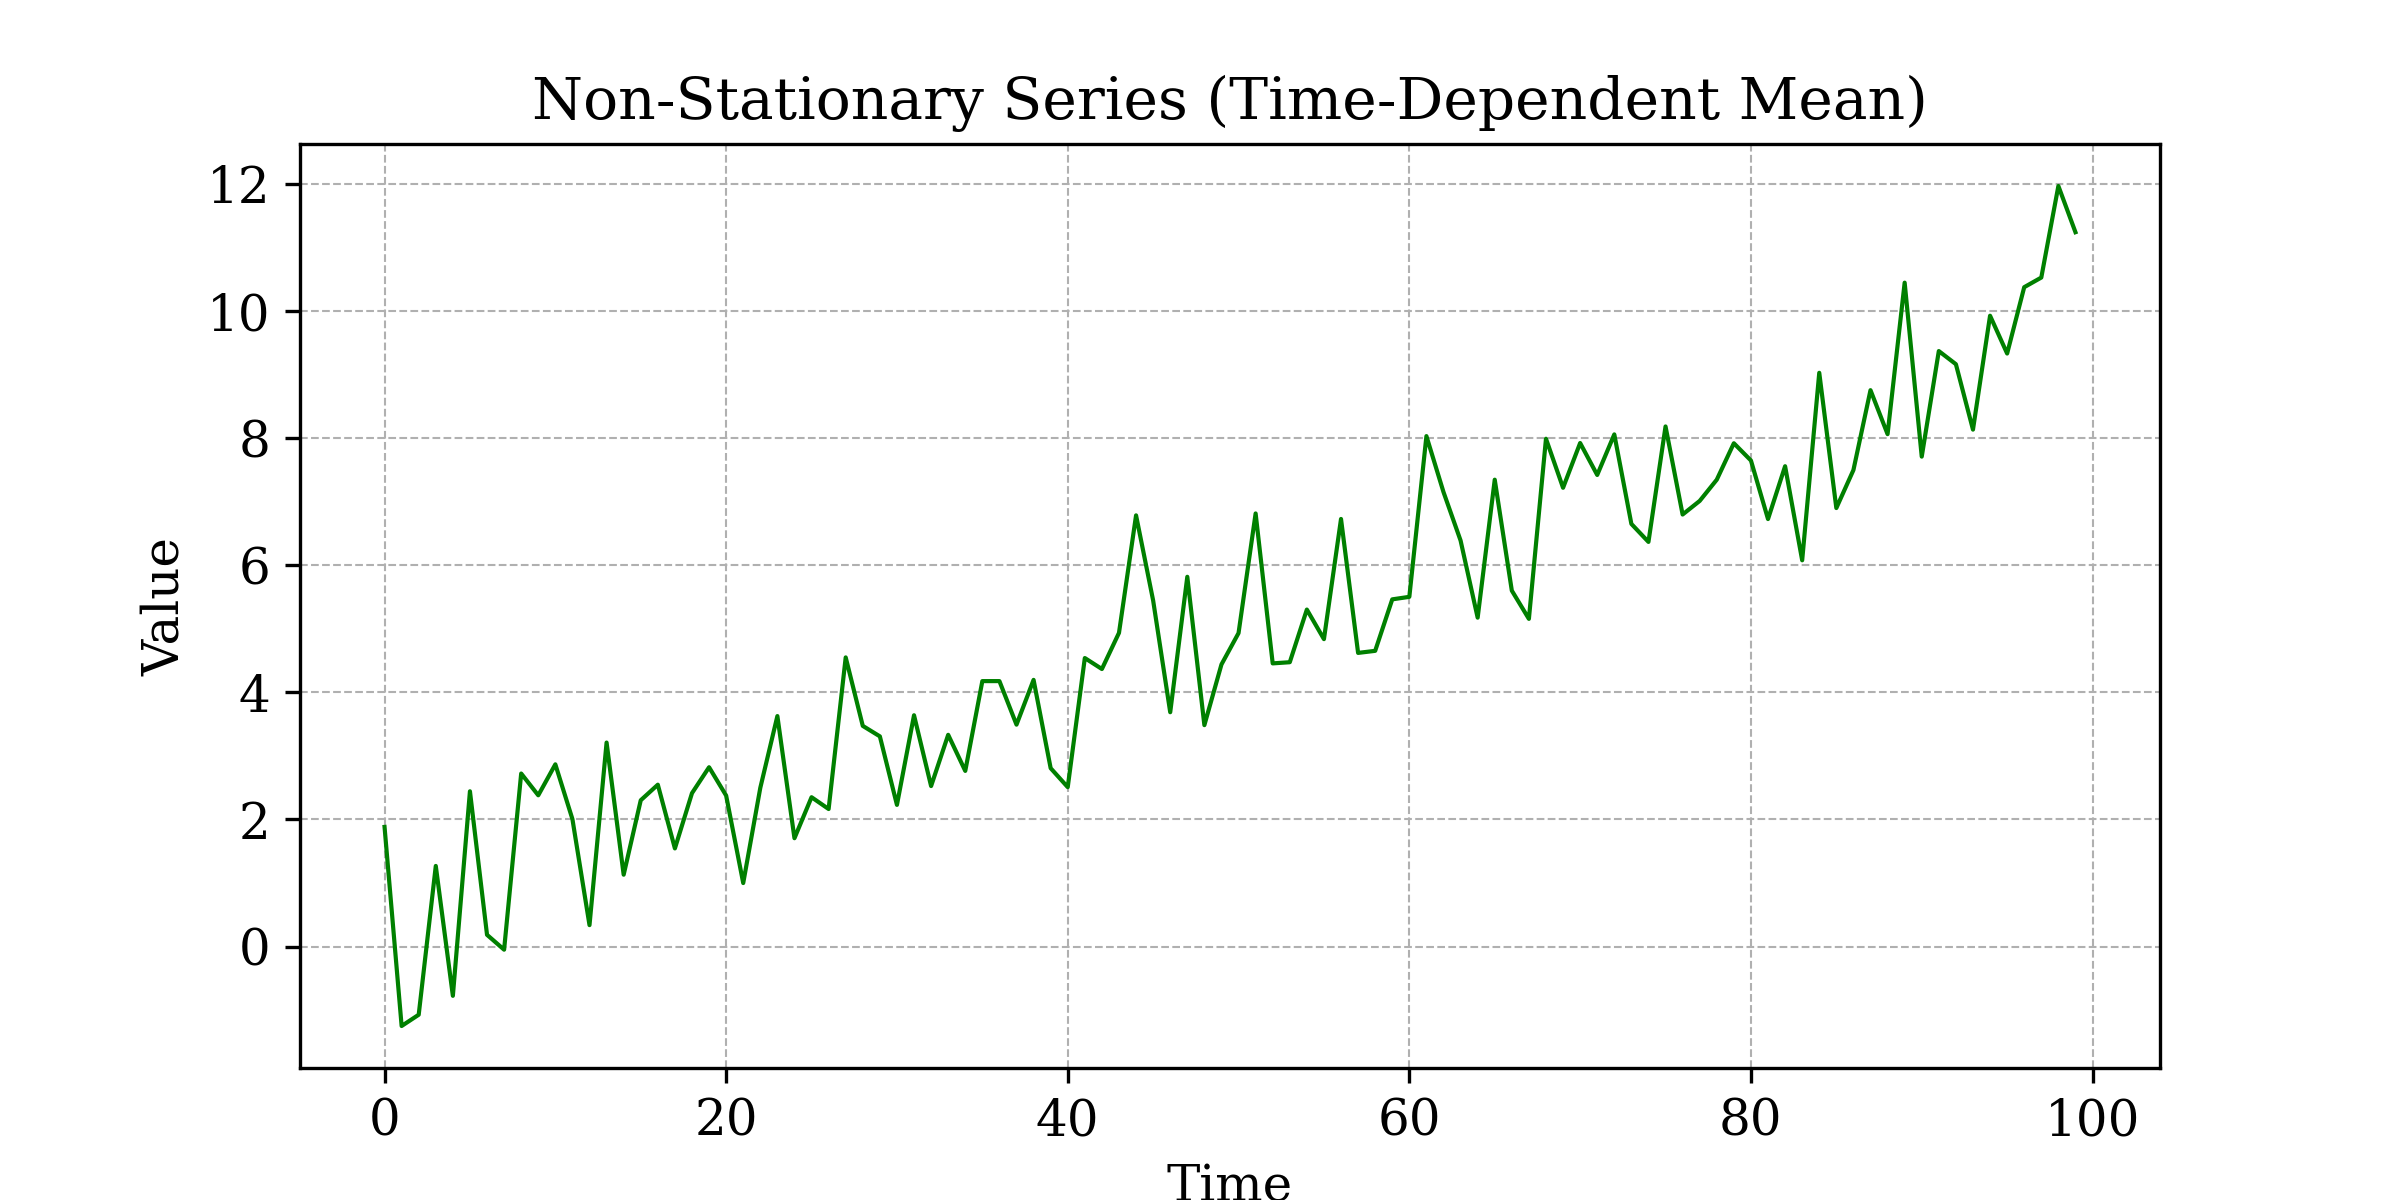
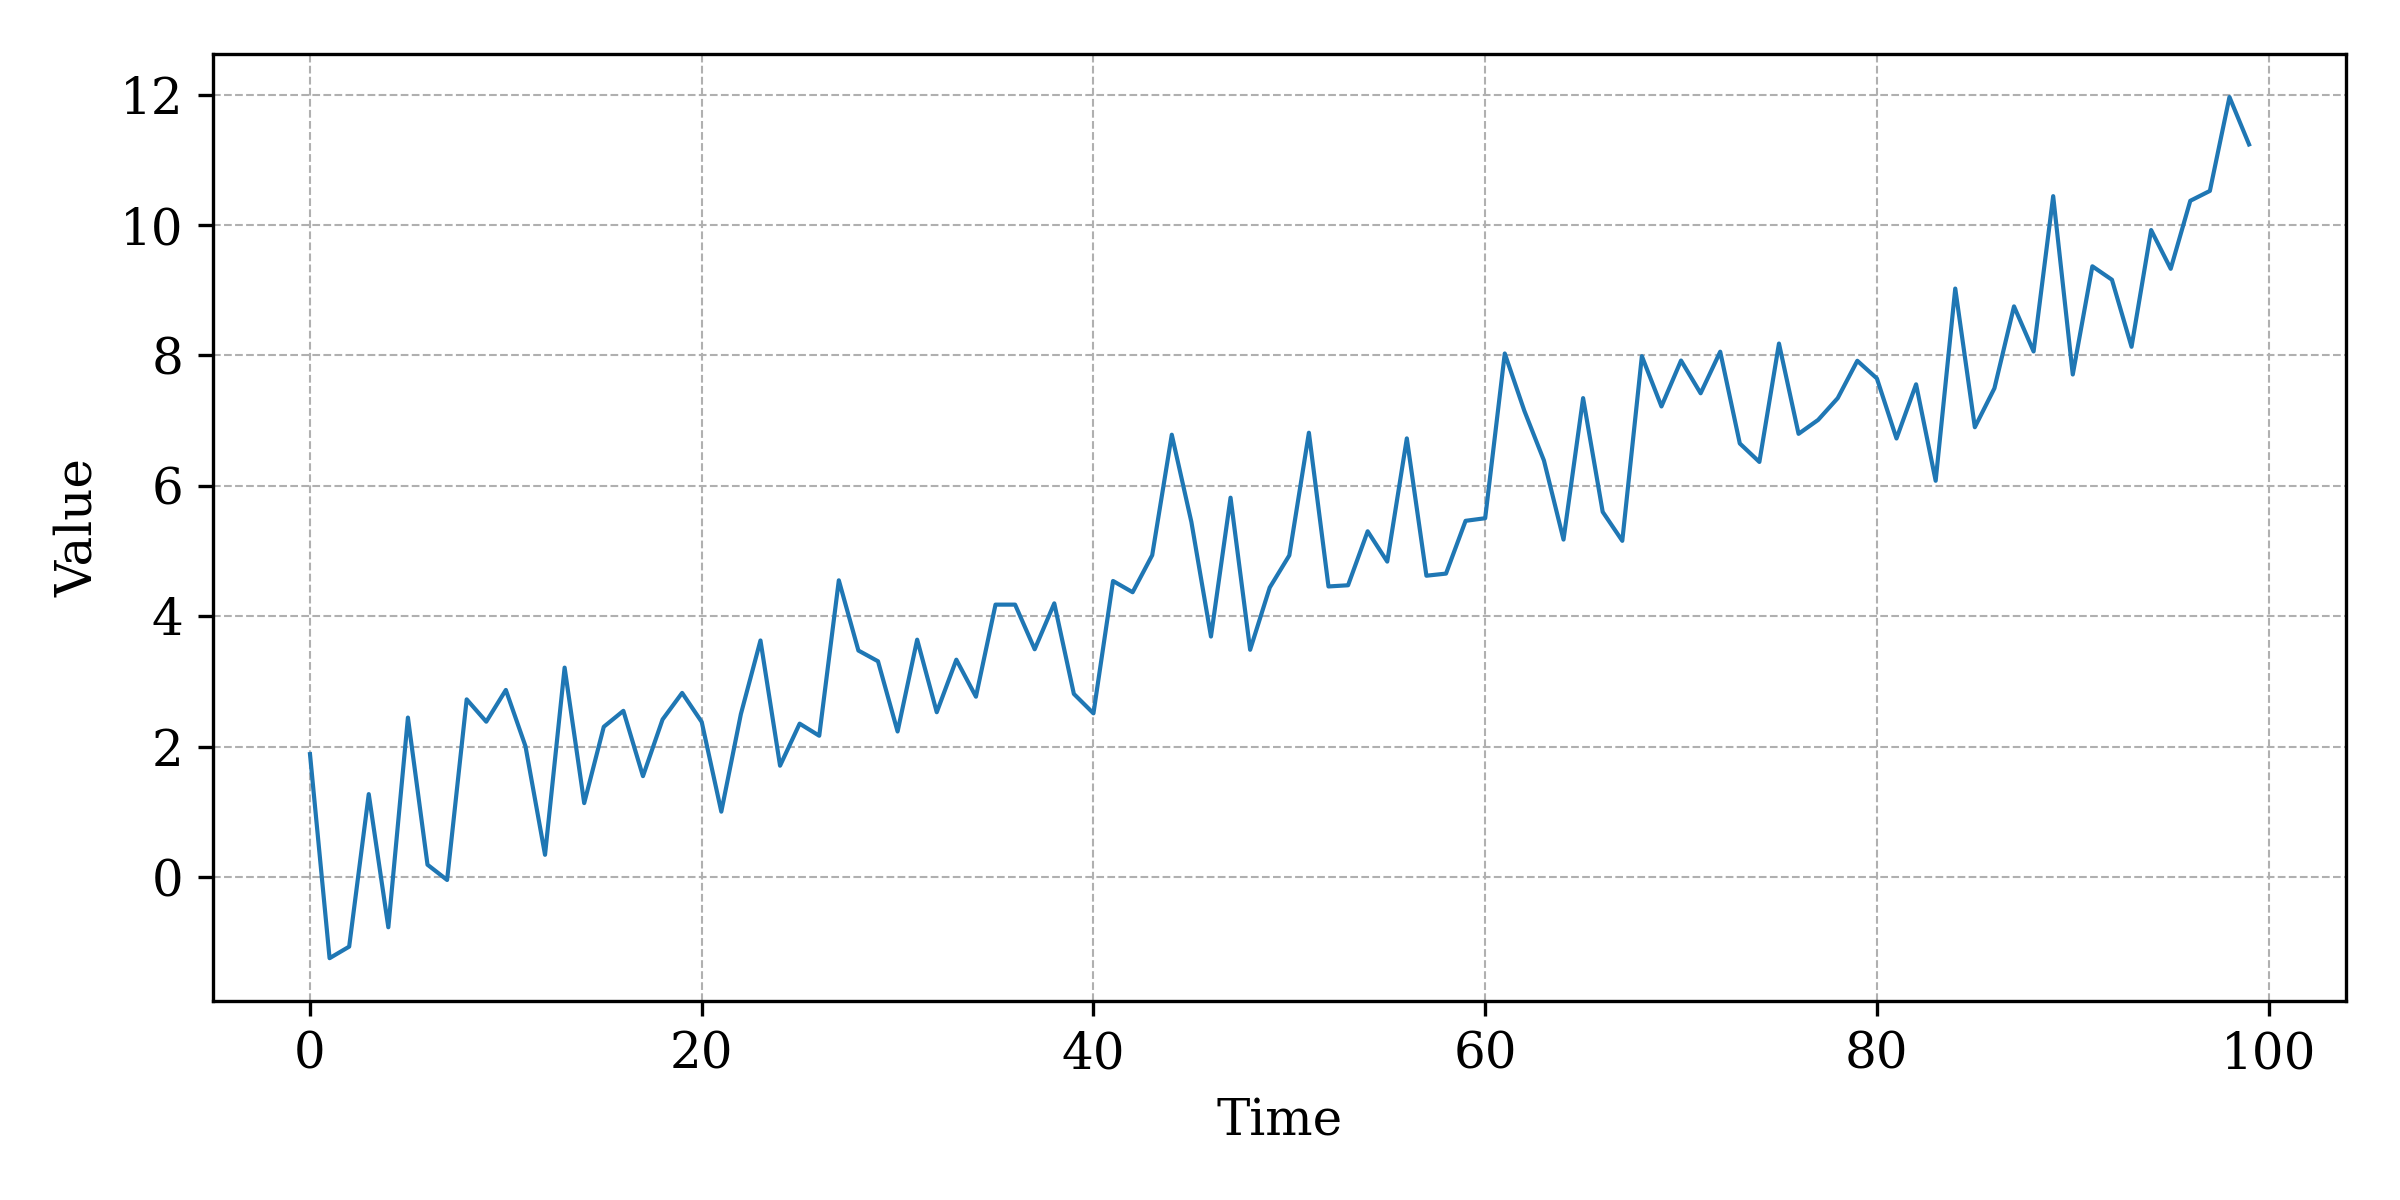
[FIX] Remove titles, unify color

diff --git a/plots/stationarity.py b/plots/stationarity.py
@@ -34,8 +34,8 @@ rcParams['figure.dpi'] = 300
 
 # 1. Stationary Time Series
 plt.figure()
-plt.plot(t, y_stationary, color='blue', linewidth=1)
-plt.title('Stationary Time Series', fontsize=14)
+plt.plot(t, y_stationary, linewidth=1)
+# plt.title('Stationary Time Series', fontsize=14)
 plt.xlabel('Time', fontsize=12)
 plt.ylabel('Value', fontsize=12)
 plt.grid(True, linestyle='--', linewidth=0.5)
@@ -45,8 +45,8 @@ plt.close()
 
 # 2. Non-Stationary Series (Time-Dependent Mean)
 plt.figure()
-plt.plot(t, y_nonstationary_mean, color='green', linewidth=1)
-plt.title('Non-Stationary Series (Time-Dependent Mean)', fontsize=14)
+plt.plot(t, y_nonstationary_mean, linewidth=1)
+# plt.title('Non-Stationary Series (Time-Dependent Mean)', fontsize=14)
 plt.xlabel('Time', fontsize=12)
 plt.ylabel('Value', fontsize=12)
 plt.grid(True, linestyle='--', linewidth=0.5)
@@ -56,8 +56,8 @@ plt.close()
 
 # 3. Non-Stationary Series (Time-Dependent Variance)
 plt.figure()
-plt.plot(t, y_nonstationary_variance, color='red', linewidth=1)
-plt.title('Non-Stationary Series (Time-Dependent Variance)', fontsize=14)
+plt.plot(t, y_nonstationary_variance, linewidth=1)
+# plt.title('Non-Stationary Series (Time-Dependent Variance)', fontsize=14)
 plt.xlabel('Time', fontsize=12)
 plt.ylabel('Value', fontsize=12)
 plt.grid(True, linestyle='--', linewidth=0.5)
@@ -67,8 +67,8 @@ plt.close()
 
 # 4. Non-Stationary Series (Time-Dependent Covariance)
 plt.figure()
-plt.plot(t, y_nonstationary_covariance, color='purple', linewidth=1)
-plt.title('Non-Stationary Series (Time-Dependent Covariance)', fontsize=14)
+plt.plot(t, y_nonstationary_covariance, linewidth=1)
+# plt.title('Non-Stationary Series (Time-Dependent Covariance)', fontsize=14)
 plt.xlabel('Time', fontsize=12)
 plt.ylabel('Value', fontsize=12)
 plt.grid(True, linestyle='--', linewidth=0.5)
